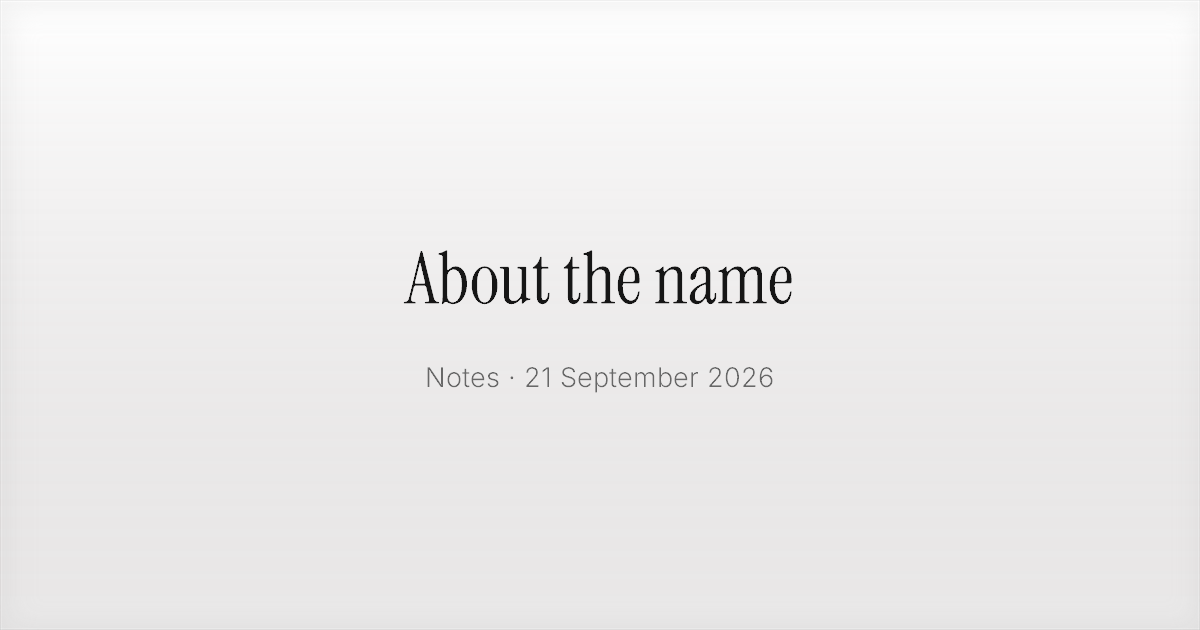
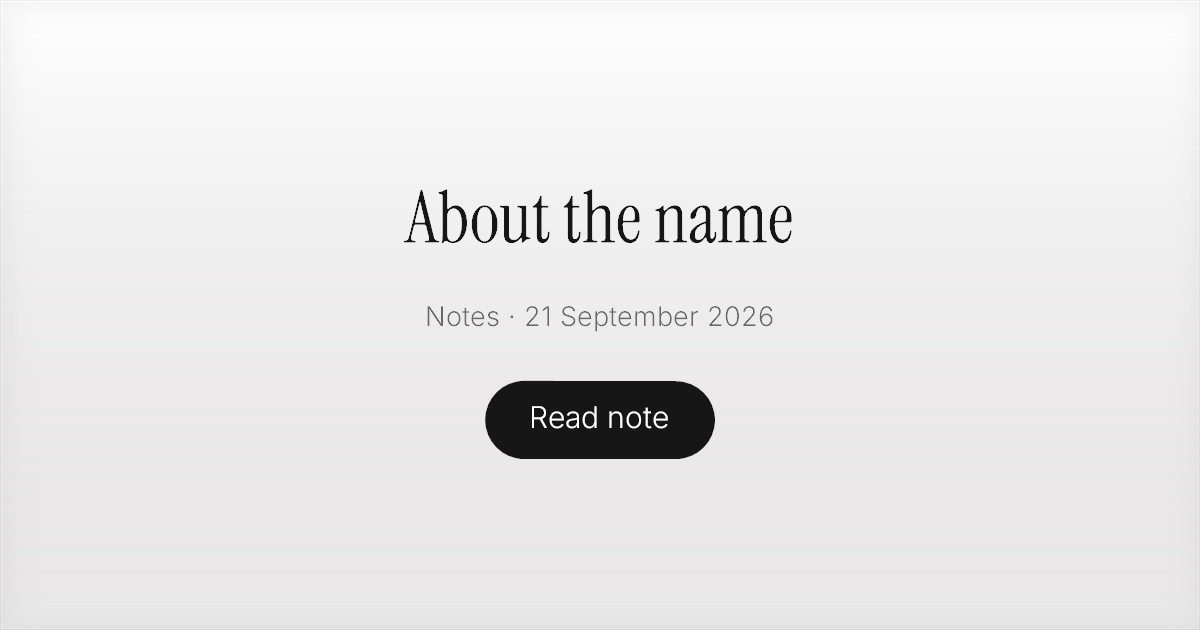
META: site_name everywhere, | titles, CTA on OG cards, media card templates
- og:site_name added to article/note metadata (Discord showed anonymous cards)
- page titles use the | divider; short navigation titles stretched toward 50-60 chars
- verify.js now checks title divider and site name on every built page
- og.ps1 draws a black rounded CTA pill on article/note cards ("Read thought" /
  "Read note") and regenerates all og.png/cover.png from the registries
- new scripts/og-media.ps1 renders future Templates: video cards (centered
  thumbnail, title, subtitle, "Watch video") and voice-note cards (deterministic
  waveform + duration, title, subtitle, "Listen the voice note")

🤖 Generated with Codebuff

Changed region(s): [[0.3392, 0.3016, 0.6783, 0.5127], [0.3392, 0.573, 0.6475, 0.754]]

diff --git a/scripts/verify.js b/scripts/verify.js
@@ -119,7 +119,29 @@ check(
 );
 check(
   "robots: standard directives only",
-  !robots.includes("Content-Signal:") && !robots.includes("Agentmap:") && robots.includes(`Sitemap: ${PROD}/sitemap.xml`)
+  !robots.includes("Agentmap:") && robots.includes(`Sitemap: ${PROD}/sitemap.xml`)
+);
+// La politica d'uso dichiarata (content signals): deve essere presente e deve
+// concordare con gli Allow del file — un ai-train=no sopra trentadue Allow: /
+// è una politica che nessuno può rispettare, perché robots.txt è l'unico posto
+// in cui può contraddire sé stesso. I motori ignorano la riga (direttiva non
+// standard), quindi non deve mai stare sopra il blocco `User-Agent: *` senza
+// che i tre segnali dicano tutti sì, come il sito dichiara altrove.
+const signalMatch = /Content-Signal:\s*([^\n]+)/.exec(robots);
+const signalValues = signalMatch
+  ? Object.fromEntries(
+      signalMatch[1].split(",").map((pair) => {
+        const [key, value] = pair.split("=").map((part) => part.trim());
+        return [key, value];
+      })
+    )
+  : null;
+check(
+  "robots: content signals declared and consistent",
+  !!signalValues &&
+    signalValues["ai-train"] === "yes" &&
+    signalValues["search"] === "yes" &&
+    signalValues["ai-input"] === "yes"
 );
 // La card markdown si annuncia anche nella <head>: un crawler non esegue la pagina.
 check(
@@ -229,6 +251,25 @@ const declared = pages.map((file) => {
   return { file: path.relative(out, file), urls };
 });
 const relative = (url) => (url.startsWith(PROD) ? url.slice(PROD.length) : null);
+// Titoli e card social, controllati su **ogni** pagina costruita, non su una
+// pagine a caso:
+//   - il titolo SERP usa il divisore `|` (mai puntini o punti di sospensione)
+//     e ha una lunghezza utile (i titoli corti sprecano spazio nella SERP);
+//   - `og:site_name` è dichiarato: senza, Discord mostra una card anonima.
+// Il controllo entra nei post e nelle note (dove il titolo è il contenuto) per
+// il divisore e il site name, mentre la soglia di lunghezza riguarda solo le
+// pagine di navigazione: un titolo d'articolo non si accorcia per far contenta
+// una metrica.
+check(
+  `meta: title uses "|" and og:site_name everywhere (${pages.length} pages)`,
+  pages.length > 0 &&
+    declared.every((p) => {
+      const html = readFileSync(path.join(out, p.file), "utf8");
+      const title = (/<title>([^<]*)<\/title>/.exec(html) || [])[1] || "";
+      return title.includes(" | ") && !title.includes("\u00B7") && html.includes('property="og:site_name"');
+    })
+);
+
 const broken = declared.flatMap((p) =>
   p.urls.length === 0 || p.urls.some((u) => !u.startsWith(PROD))
     ? [p.file]

diff --git a/app/notes/page.tsx b/app/notes/page.tsx
@@ -8,10 +8,13 @@ import { socialImages } from "@/lib/social";
 
 // La card di questa sezione, dichiarata come su tutte le altre pagine: misure,
 // tipo e alt compresi (un'anteprima non indovina niente da sola).
-const card = socialImages("/notes/og.png", "Notes · Mattia Ciuni");
+const pageTitle = "Notes on AI, payments and software | Mattia Ciuni";
+const card = socialImages("/notes/og.png", "Notes | Mattia Ciuni");
+// Il `title` del metadata non include il sito: lo aggiunge il template del
+// layout (`%s | Mattia Ciuni`), che è lo stesso divisore di ogni altra pagina.
 
 export const metadata: Metadata = {
-  title: "Notes",
+  title: "Notes on AI, payments and software",
   description:
     "Long-form notes by Mattia Ciuni on AI, payments and the philosophy of building software. Written slowly, updated rarely.",
   alternates: {
@@ -21,14 +24,15 @@ export const metadata: Metadata = {
   openGraph: {
     type: "website",
     url: "/notes/",
-    title: "Notes · Mattia Ciuni",
+    siteName: "Mattia Ciuni",
+    title: pageTitle,
     description:
       "Long-form notes on AI agents, payments and the philosophy of building software.",
     images: card.og,
   },
   twitter: {
     card: "summary_large_image",
-    title: "Notes · Mattia Ciuni",
+    title: pageTitle,
     description:
       "Long-form notes on AI agents, payments and the philosophy of building software.",
     images: card.twitter,

diff --git a/app/thoughts/page.tsx b/app/thoughts/page.tsx
@@ -8,10 +8,11 @@ import { socialImages } from "@/lib/social";
 
 // La card di questa sezione, dichiarata come su tutte le altre pagine: misure,
 // tipo e alt compresi (un'anteprima non indovina niente da sola).
-const card = socialImages("/thoughts/og.png", "Thoughts · Mattia Ciuni");
+const pageTitle = "Thoughts on AI agents and payments | Mattia Ciuni";
+const card = socialImages("/thoughts/og.png", "Thoughts | Mattia Ciuni");
 
 export const metadata: Metadata = {
-  title: "Thoughts",
+  title: "Thoughts on AI agents and payments",
   description:
     "Thoughts by Mattia Ciuni on AI agents, payments and building Payle: the money layer for the agentic economy.",
   alternates: {
@@ -21,14 +22,15 @@ export const metadata: Metadata = {
   openGraph: {
     type: "website",
     url: "/thoughts/",
-    title: "Thoughts · Mattia Ciuni",
+    siteName: "Mattia Ciuni",
+    title: pageTitle,
     description:
       "Thoughts by Mattia Ciuni on AI agents, payments and building Payle.",
     images: card.og,
   },
   twitter: {
     card: "summary_large_image",
-    title: "Thoughts · Mattia Ciuni",
+    title: pageTitle,
     description:
       "Thoughts by Mattia Ciuni on AI agents, payments and building Payle.",
     images: card.twitter,

diff --git a/app/voice-notes/page.tsx b/app/voice-notes/page.tsx
@@ -5,19 +5,22 @@ import { AudioPlayer } from "@/components/MediaPlayers";
 import { voiceNotes } from "@/lib/voice-notes";
 import { site } from "@/lib/site";
 
+const pageTitle = "Voice Notes | Mattia Ciuni | Spoken, unedited";
+
 export const metadata: Metadata = {
-  title: "Voice Notes",
+  title: "Voice Notes | Spoken, unedited",
   description: "Unedited spoken notes from Mattia Ciuni on building Payle, work and the questions between decisions.",
   authors: [{ name: "Mattia Ciuni", url: site.url }],
   alternates: { canonical: "/voice-notes/" },
   openGraph: {
     type: "website",
     url: "/voice-notes/",
-    title: "Voice Notes · Mattia Ciuni",
+    siteName: "Mattia Ciuni",
+    title: pageTitle,
     description: "Unedited spoken notes from Mattia Ciuni on building Payle.",
     images: [{ url: "/og.png", width: 1200, height: 630, alt: "Mattia Ciuni" }],
   },
-  twitter: { card: "summary_large_image", images: ["/og.png"] },
+  twitter: { card: "summary_large_image", title: pageTitle, images: ["/og.png"] },
 };
 
 export default function VoiceNotesPage() {

diff --git a/app/terms/page.tsx b/app/terms/page.tsx
@@ -2,10 +2,20 @@ import type { Metadata } from "next";
 import { LegalPage, type LegalSection } from "@/components/LegalPage";
 import { site } from "@/lib/site";
 
+const pageTitle = "Terms of Service | Mattia Ciuni";
+
 export const metadata: Metadata = {
-  title: "Terms of Service",
-  description: "Terms for using Mattia Ciuni's website and newsletter.",
+  title: "Terms of Service | Reading and newsletter rules",  description: "Terms for using Mattia Ciuni's website and newsletter.",
   alternates: { canonical: "/terms/" },
+  openGraph: {
+    type: "website",
+    url: "/terms/",
+    siteName: "Mattia Ciuni",
+    title: pageTitle,
+    description: "Terms for using Mattia Ciuni's website and newsletter.",
+    images: [{ url: "/og.png", width: 1200, height: 630, alt: "Mattia Ciuni" }],
+  },
+  twitter: { card: "summary_large_image", title: pageTitle, images: ["/og.png"] },
 };
 
 const sections: LegalSection[] = [

diff --git a/app/robots.txt/route.ts b/app/robots.txt/route.ts
@@ -48,8 +48,12 @@ export async function GET() {
     `# (es. ${base}/thoughts/money-layer-for-ai-agents.md), vedi anche ${base}/llms.txt`,
     "",
     "User-Agent: *",
-    "# Standard robots.txt directives only: discovery metadata is linked separately",
-    "# through the site headers and /.well-known/ai-catalog.json.",
+    "# La politica d'uso (IETF draft, contentsignals.org): il sito è pubblico,",
+    "# quindi tutti e tre i segnali dicono sì — la stessa cosa che dicono i",
+    "# trentadue Allow: / che seguono. Un segnale che contraddice gli Allow è una",
+    "# politica che nessuno può rispettare. La scoperta (card, llms.txt, catalogo)",
+    "# resta dichiarata negli header e in /.well-known/, non qui.",
+    "Content-Signal: ai-train=yes, search=yes, ai-input=yes",
     "Allow: /",
     "",
     ...AI_AGENTS.flatMap((agent) => [`User-Agent: ${agent}`, "Allow: /", ""]),

diff --git a/app/privacy/page.tsx b/app/privacy/page.tsx
@@ -3,10 +3,21 @@ import Link from "next/link";
 import { LegalPage, type LegalSection } from "@/components/LegalPage";
 import { site } from "@/lib/site";
 
+const pageTitle = "Privacy Policy | Mattia Ciuni";
+
 export const metadata: Metadata = {
-  title: "Privacy Policy",
+  title: "Privacy Policy | What I collect and why",
   description: "How Mattia Ciuni handles newsletter subscriptions and personal data.",
   alternates: { canonical: "/privacy/" },
+  openGraph: {
+    type: "website",
+    url: "/privacy/",
+    siteName: "Mattia Ciuni",
+    title: pageTitle,
+    description: "How Mattia Ciuni handles newsletter subscriptions and personal data.",
+    images: [{ url: "/og.png", width: 1200, height: 630, alt: "Mattia Ciuni" }],
+  },
+  twitter: { card: "summary_large_image", title: pageTitle, images: ["/og.png"] },
 };
 
 const sections: LegalSection[] = [

diff --git a/app/legal/page.tsx b/app/legal/page.tsx
@@ -2,10 +2,21 @@ import type { Metadata } from "next";
 import Link from "next/link";
 import { LegalPage, type LegalSection } from "@/components/LegalPage";
 
+const pageTitle = "Legal Center | Privacy, Terms and Cookies";
+
 export const metadata: Metadata = {
-  title: "Legal Center",
+  title: "Legal Center | Privacy, Terms and Cookies",
   description: "Privacy, terms, and cookies for Mattia Ciuni's website.",
   alternates: { canonical: "/legal/" },
+  openGraph: {
+    type: "website",
+    url: "/legal/",
+    siteName: "Mattia Ciuni",
+    title: pageTitle,
+    description: "Privacy, terms, and cookies for Mattia Ciuni's website.",
+    images: [{ url: "/og.png", width: 1200, height: 630, alt: "Mattia Ciuni" }],
+  },
+  twitter: { card: "summary_large_image", title: pageTitle, images: ["/og.png"] },
 };
 
 const sections: LegalSection[] = [

diff --git a/app/cookies/page.tsx b/app/cookies/page.tsx
@@ -1,10 +1,21 @@
 import type { Metadata } from "next";
 import { LegalPage, type LegalSection } from "@/components/LegalPage";
 
+const pageTitle = "Cookies Policy | Mattia Ciuni";
+
 export const metadata: Metadata = {
-  title: "Cookies",
+  title: "Cookies Policy | Browser storage on this site",
   description: "A clear summary of cookies and local browser storage used on this site.",
   alternates: { canonical: "/cookies/" },
+  openGraph: {
+    type: "website",
+    url: "/cookies/",
+    siteName: "Mattia Ciuni",
+    title: pageTitle,
+    description: "A clear summary of cookies and local browser storage used on this site.",
+    images: [{ url: "/og.png", width: 1200, height: 630, alt: "Mattia Ciuni" }],
+  },
+  twitter: { card: "summary_large_image", title: pageTitle, images: ["/og.png"] },
 };
 
 const sections: LegalSection[] = [

diff --git a/app/videos/page.tsx b/app/videos/page.tsx
@@ -4,12 +4,12 @@ import { founderVideos } from "@/lib/videos";
 import { VideoPlayer } from "@/components/MediaPlayers";
 import { site } from "@/lib/site";
 
-const pageTitle = "Videos · Mattia Ciuni";
+const pageTitle = "Videos | Mattia Ciuni | Building Payle in public";
 const pageDescription =
   "Founder videos from Mattia Ciuni on building Payle, working through hard problems and staying close to the work.";
 
 export const metadata: Metadata = {
-  title: "Videos",
+  title: "Videos | Building Payle in public",
   description: pageDescription,
   keywords: [
     "Mattia Ciuni videos",

diff --git a/app/layout.tsx b/app/layout.tsx
@@ -44,7 +44,8 @@ export const metadata: Metadata = {
   metadataBase: new URL(site.url),
   title: {
     default: "Mattia Ciuni | Founder & CEO @ Payle",
-    template: "%s · Mattia Ciuni",
+    // Un solo divisore, sempre il trattino: mai puntini o punti di sospensione.
+    template: "%s | Mattia Ciuni",
   },
   description: site.description,
   keywords: [

diff --git a/app/notes/[slug]/page.tsx b/app/notes/[slug]/page.tsx
@@ -43,6 +43,7 @@ export async function generateMetadata({
     openGraph: {
       type: "article",
       url,
+      siteName: "Mattia Ciuni",
       title: note.title,
       description: note.description,
       publishedTime: note.date,
